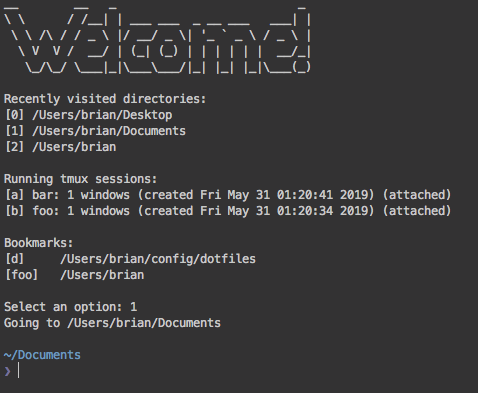
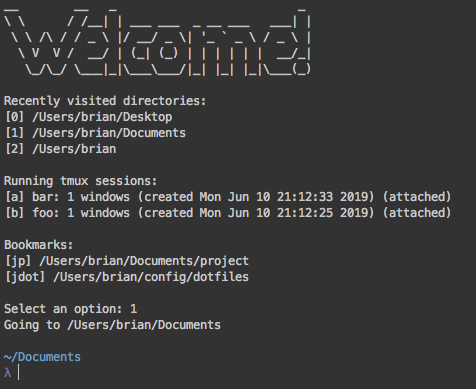
update readme and image to account for new changes
- image now has updated spacing
- image now shows j along with the bookmark names in the menu

diff --git a/README.md b/README.md
@@ -36,8 +36,8 @@ installation instructions for `zshmarks`.
 Further, make sure that `zshmarks` is loaded before `start`
 (source it first, or put it before `start` in your list of plugins).
 To use the integration, type `j` in front of the name of the mark you'd like to
-jump to. For example, in the above image, typing `jd` will jump to
-`/Users/brian/config/dotfiles/`.
+jump to. For example, in the above image, typing `jp` will jump to
+`/Users/brian/Documents/project`.
 
 # Notes
 * The start menu isn't shown when the current directory upon startup isn't `$HOME`, as it's
